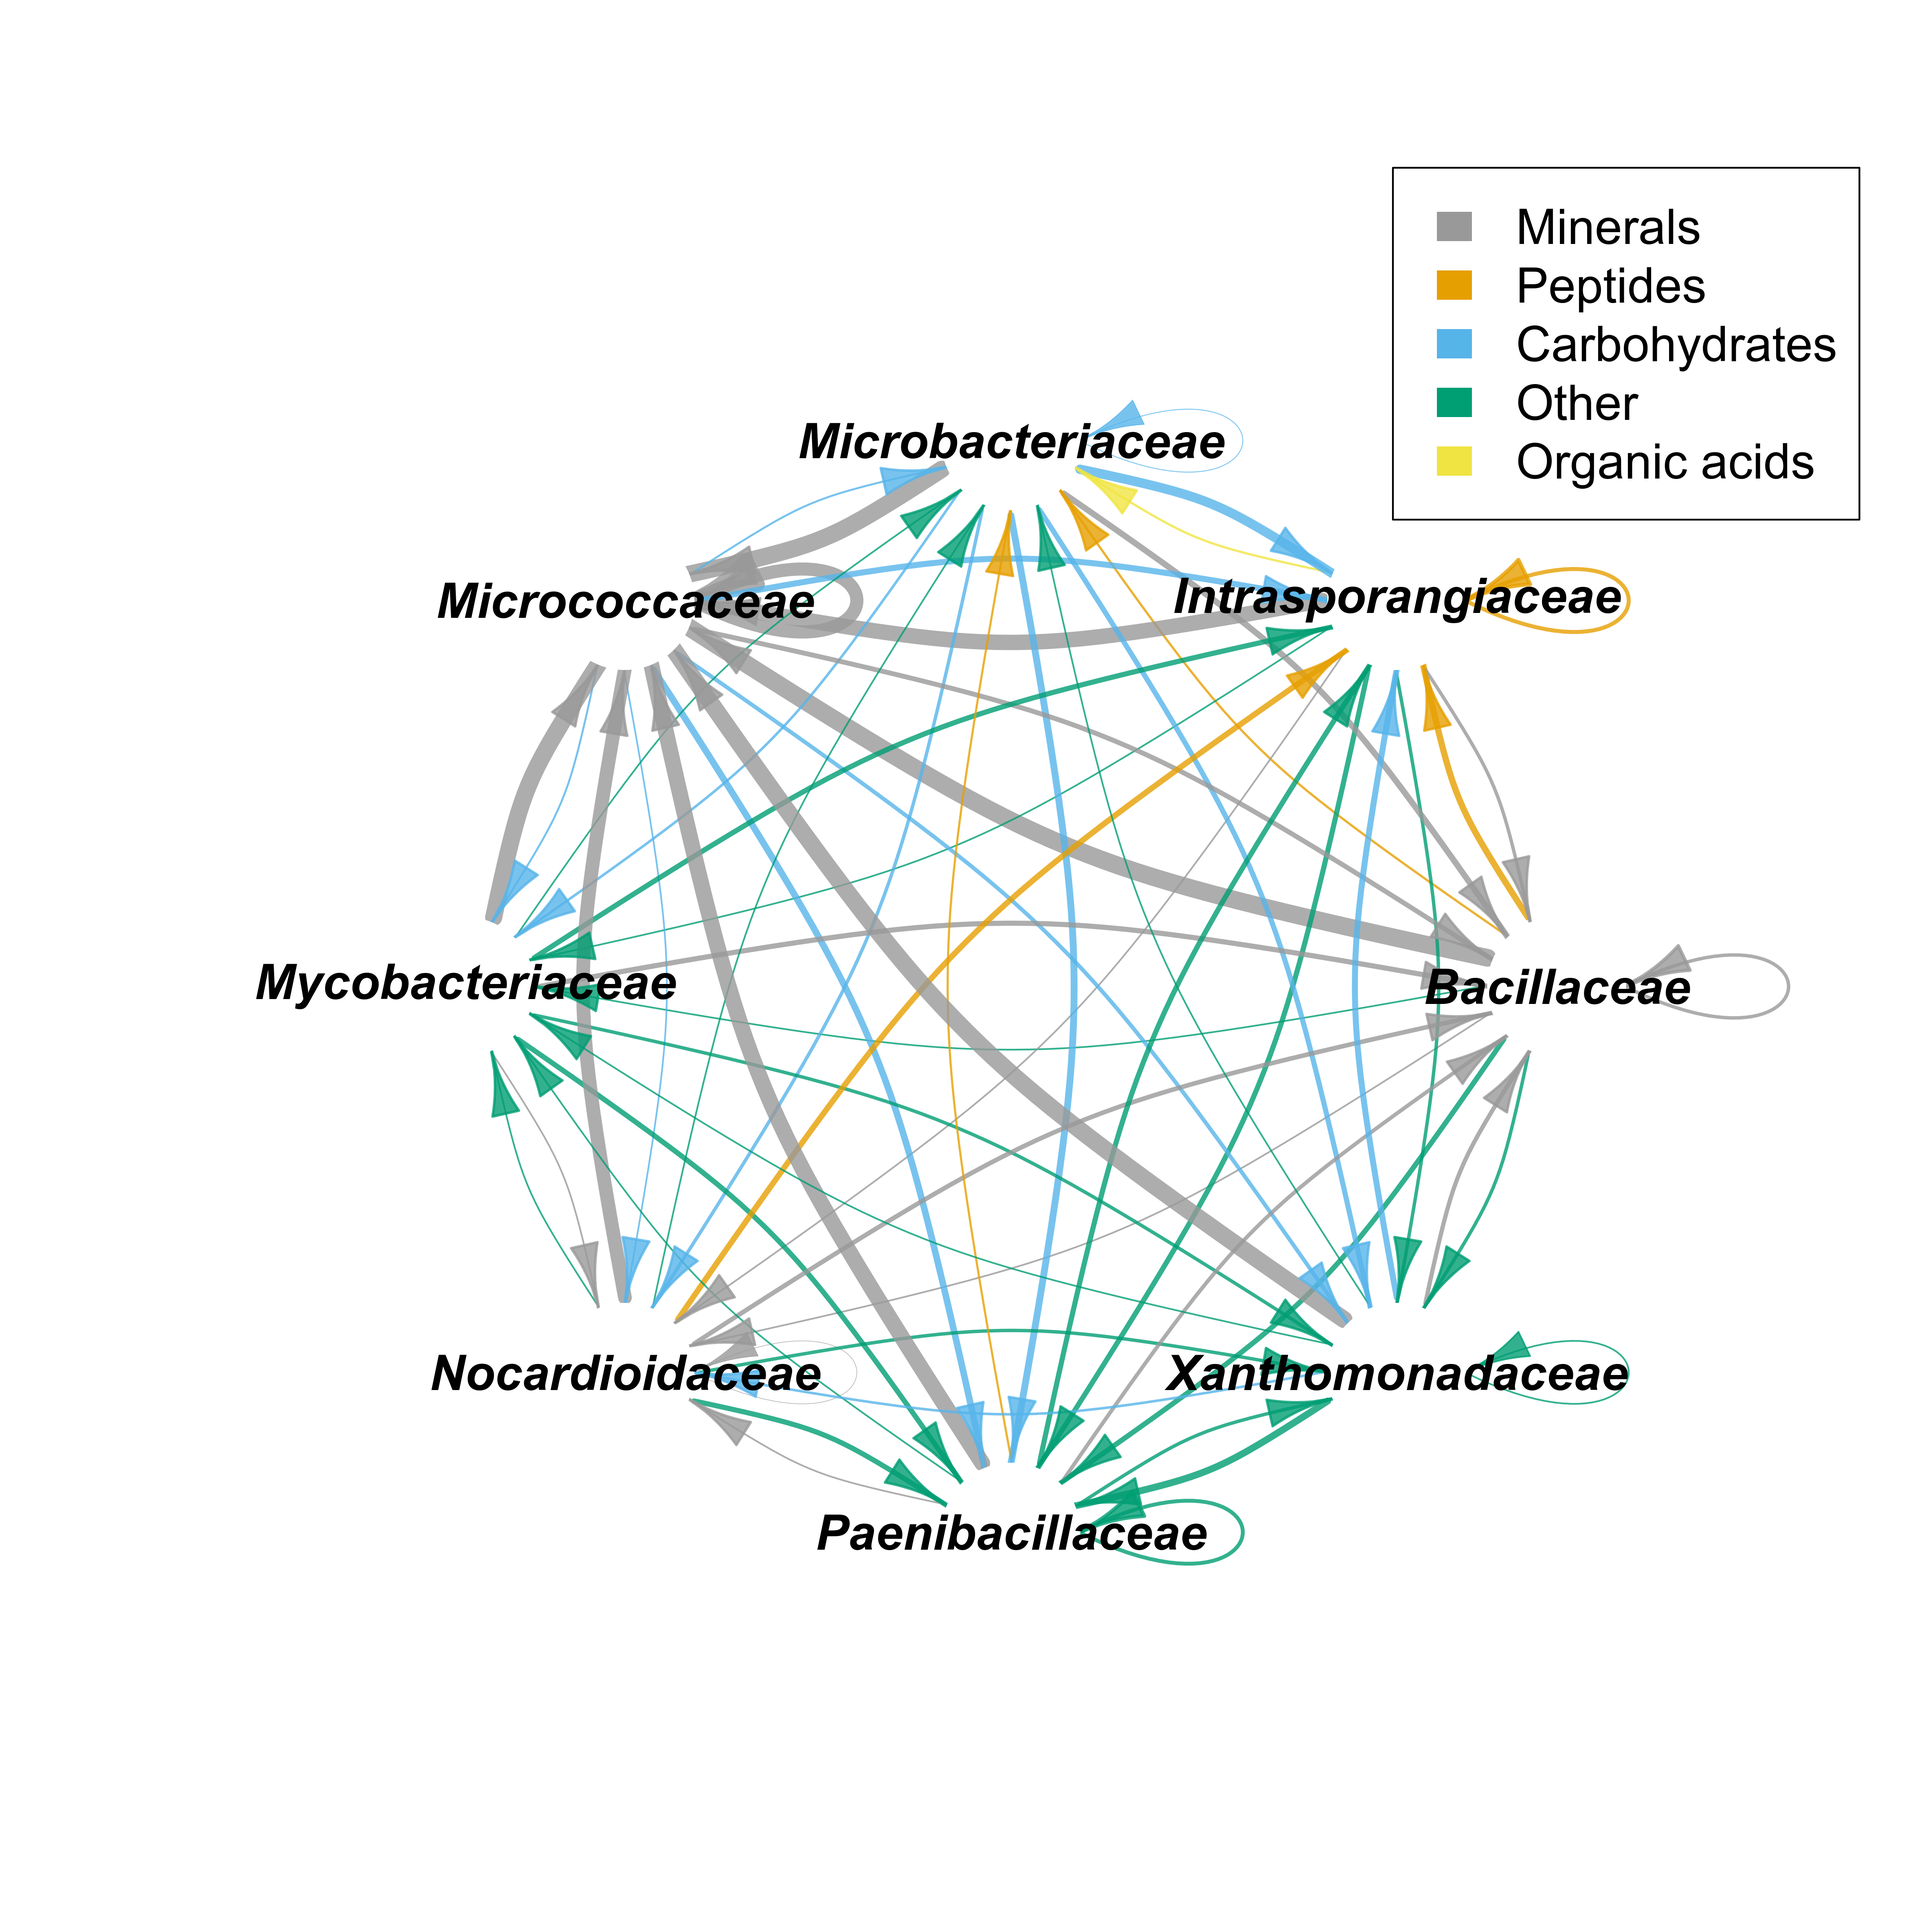
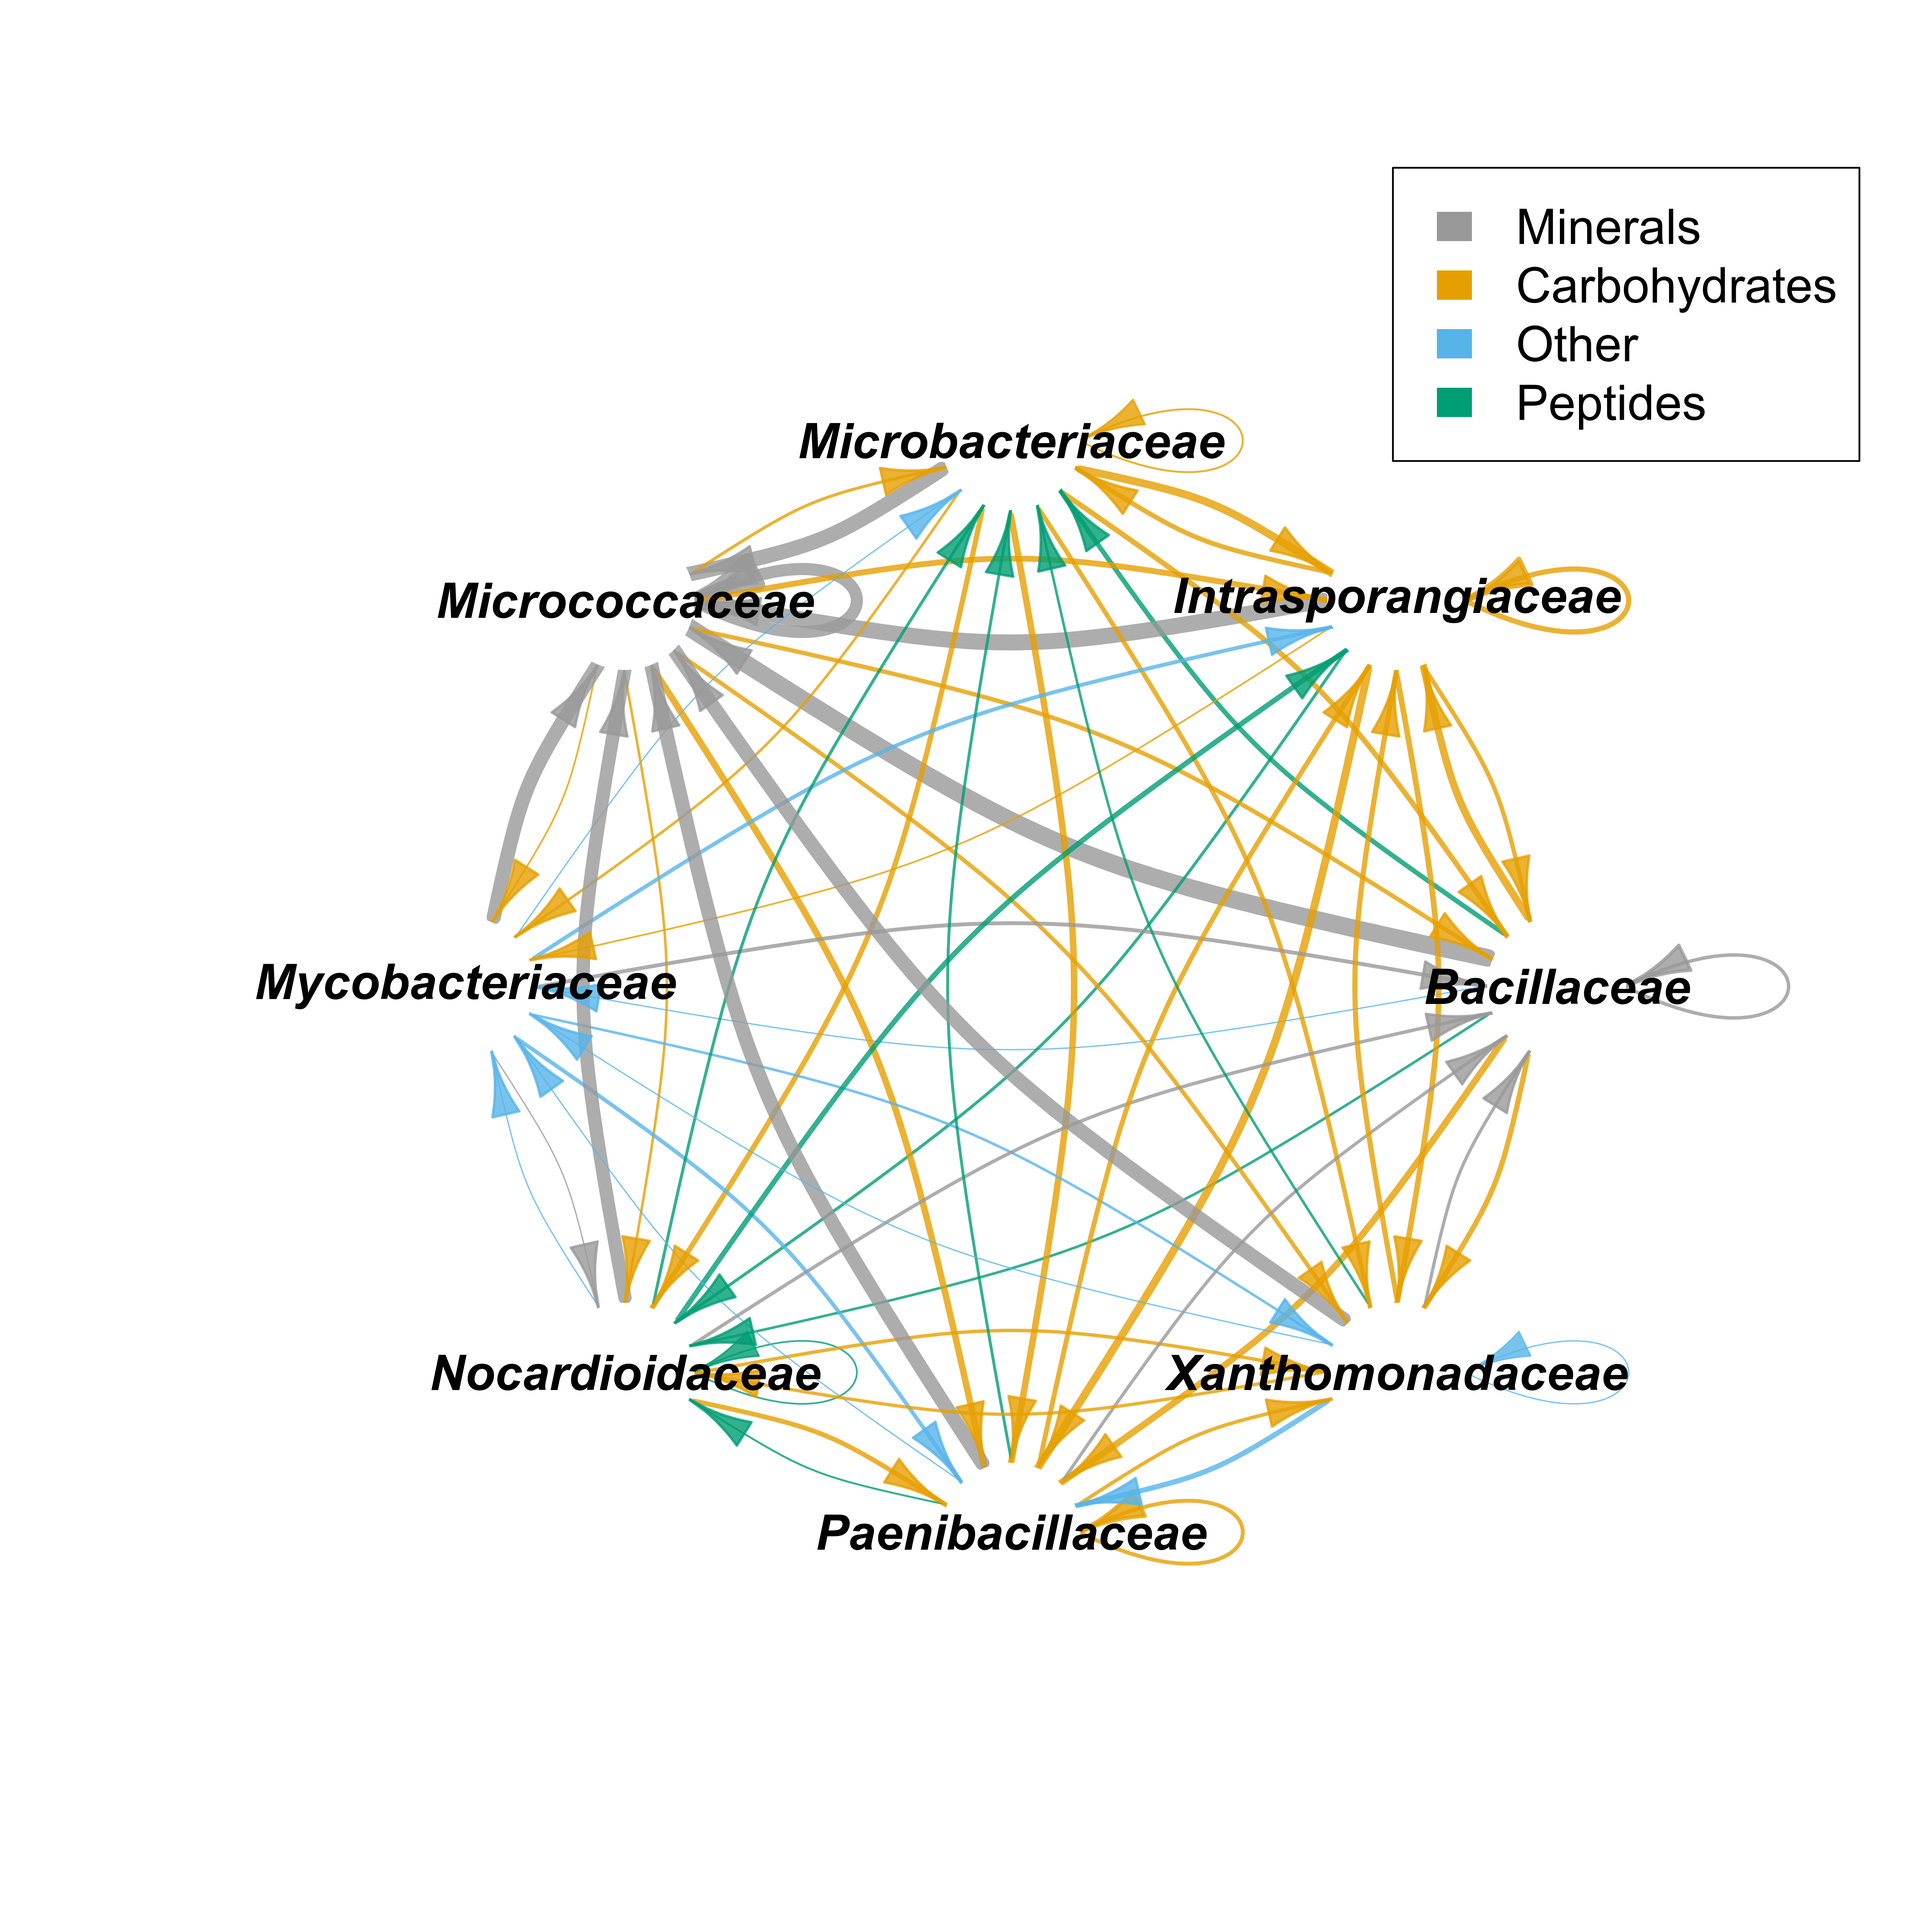
remove restrictions on exchanged metabolites for graph

diff --git a/code/matlab/gap_filling_analysis/find_exchanged_metabolites.m b/code/matlab/gap_filling_analysis/find_exchanged_metabolites.m
@@ -51,44 +51,44 @@ end
 t_unspecific = n;
 
 % imported
-all_imported = vertcat(imported_per_model{:});
-all_imported = unique(all_imported);
+% all_imported = vertcat(imported_per_model{:});
+% all_imported = unique(all_imported);
 
 % get permeability for all metabolites and determine the ones that are not
 % predicted to be permeable
-p_imported = ...
-    cellfun(@(x)dbModel_MNXref_balanced.metPermeability(strcmp(x,...
-    dbModel_MNXref_balanced.mets)), all_imported, 'un', 0);
-p_imported(cellfun('isempty', p_imported)) = {false};
-p_imported = cell2mat(p_imported);
-mets_not_p = all_imported(~p_imported);
-imported_per_model = cellfun(@(x)setdiff(x, mets_not_p), imported_per_model,...
-    'UniformOutput', 0);
+% p_imported = ...
+%     cellfun(@(x)dbModel_MNXref_balanced.metPermeability(strcmp(x,...
+%     dbModel_MNXref_balanced.mets)), all_imported, 'un', 0);
+% p_imported(cellfun('isempty', p_imported)) = {false};
+% p_imported = cell2mat(p_imported);
+% mets_not_p = all_imported(~p_imported);
+% imported_per_model = cellfun(@(x)setdiff(x, mets_not_p), imported_per_model,...
+%     'UniformOutput', 0);
 % exclude imported metabolites that occur in most or all models
-unspecific_imported = cellfun(@(x)sum(contains(all_imported, x)), unique(all_imported))==t_unspecific;
-unspecific_imported = all_imported(unspecific_imported);
-imported_per_model = cellfun(@(x)setdiff(x, unspecific_imported), imported_per_model,...
-    'UniformOutput', 0);
+% unspecific_imported = cellfun(@(x)sum(contains(all_imported, x)), unique(all_imported))==t_unspecific;
+% unspecific_imported = all_imported(unspecific_imported);
+% imported_per_model = cellfun(@(x)setdiff(x, unspecific_imported), imported_per_model,...
+%     'UniformOutput', 0);
 
 % exported
-all_exported = vertcat(exported_per_model{:});
-all_exported = unique(all_exported);
+% all_exported = vertcat(exported_per_model{:});
+% all_exported = unique(all_exported);
 % get permeability for all metabolites and determine the ones that are not
 % predicted to be permeable
-p_exported = ...
-    cellfun(@(x)dbModel_MNXref_balanced.metPermeability(strcmp(x,...
-    dbModel_MNXref_balanced.mets)), all_exported, 'un', 0);
-p_exported(cellfun('isempty', p_exported)) = {false};
-p_exported = cell2mat(p_exported);
-mets_not_p = all_exported(~p_exported);
-exported_per_model = cellfun(@(x)setdiff(x, mets_not_p), exported_per_model,...
-    'UniformOutput', 0);
+% p_exported = ...
+%     cellfun(@(x)dbModel_MNXref_balanced.metPermeability(strcmp(x,...
+%     dbModel_MNXref_balanced.mets)), all_exported, 'un', 0);
+% p_exported(cellfun('isempty', p_exported)) = {false};
+% p_exported = cell2mat(p_exported);
+% mets_not_p = all_exported(~p_exported);
+% exported_per_model = cellfun(@(x)setdiff(x, mets_not_p), exported_per_model,...
+%     'UniformOutput', 0);
 
 % exclude exported metabolites that occur in most or all models
-unspecific_exported = cellfun(@(x)sum(contains(all_exported, x)), unique(all_exported))==t_unspecific;
-unspecific_exported = all_exported(unspecific_exported);
-exported_per_model = cellfun(@(x)setdiff(x, unspecific_exported), exported_per_model,...
-    'UniformOutput', 0);
+% unspecific_exported = cellfun(@(x)sum(contains(all_exported, x)), unique(all_exported))==t_unspecific;
+% unspecific_exported = all_exported(unspecific_exported);
+% exported_per_model = cellfun(@(x)setdiff(x, unspecific_exported), exported_per_model,...
+%     'UniformOutput', 0);
 
 clear mets_not_p all_exported all_imported unspecific_exported unspecific_imported ...
     dbModel_MNXref_balanced
@@ -320,22 +320,23 @@ writetable(array2table(exchange_mt, 'VariableNames', tax_classes),...
 % model_ids(cellfun(@(x)ismember({'MNXM1542[e]'},x),exported_per_model))
 % model_ids(cellfun(@(x)ismember({'MNXM1542[e]'},x),imported_per_model))
 % 
-% exchanged_IDs = intersect(vertcat(imported_per_model{:}),vertcat(exported_per_model{:}));
-% exchanged_brite = map2KEGGBrite(exchanged_IDs,briteFile);
-% exchanged_names = translateIDs(strtok(exchanged_IDs,'['),'met',[],'MNXref', 'NAME');
-% imported_per_model = cellfun(@(x)strjoin(x,','),imported_per_model,'un',0);
-% exported_per_model = cellfun(@(x)strjoin(x,','),exported_per_model,'un',0);
-% fam_names = cellfun(@(x)taxonomyTab.(2)(ismember(taxonomyTab.(1),x)),model_ids);
-% 
-% writetable(cell2table([fam_names, imported_per_model,exported_per_model],...
-%     'RowNames', model_ids, 'VariableNames', {'family', 'import_ID',...
-%     'export_ID'}),...
-%     [figOutDir, filesep, 'graph', filesep, [habitat, '_', sub_dir],...
-%     '_exchanged_metabolites_IDs_',experiment, '.txt'],...
-%     'WriteRowNames', true, 'WriteVariableNames', true, 'Delimiter', '\t')
-% 
-% writetable(cell2table([exchanged_IDs, exchanged_brite, exchanged_names]),...
-%     [figOutDir, filesep, 'graph', filesep, [habitat, '_', sub_dir],...
-%     '_exchanged_metabolites_dict_',experiment, '.txt'],...
-%     'WriteRowNames', false, 'WriteVariableNames', false, 'Delimiter', '\t');
+exchanged_IDs = intersect(vertcat(imported_per_model{:}),vertcat(exported_per_model{:}));
+exchanged_brite = map2KEGGBrite(exchanged_IDs,briteFile);
+exchanged_brite = vertcat(exchanged_brite{:});
+exchanged_names = translateIDs(strtok(exchanged_IDs,'['),'met',[],'MNXref', 'NAME');
+imported_per_model = cellfun(@(x)strjoin(x,','),imported_per_model,'un',0);
+exported_per_model = cellfun(@(x)strjoin(x,','),exported_per_model,'un',0);
+fam_names = cellfun(@(x)taxonomyTab.(2)(ismember(taxonomyTab.(1),x)),model_ids);
+
+writetable(cell2table([fam_names, imported_per_model,exported_per_model],...
+    'RowNames', model_ids, 'VariableNames', {'family', 'import_ID',...
+    'export_ID'}),...
+    [figOutDir, filesep, 'graph', filesep, [habitat, '_', sub_dir],...
+    '_exchanged_metabolites_IDs_',experiment, '.txt'],...
+    'WriteRowNames', true, 'WriteVariableNames', true, 'Delimiter', '\t')
+
+writetable(cell2table([exchanged_IDs, exchanged_brite, exchanged_names]),...
+    [figOutDir, filesep, 'graph', filesep, [habitat, '_', sub_dir],...
+    '_exchanged_metabolites_dict_',experiment, '.txt'],...
+    'WriteRowNames', false, 'WriteVariableNames', false, 'Delimiter', '\t');
 
